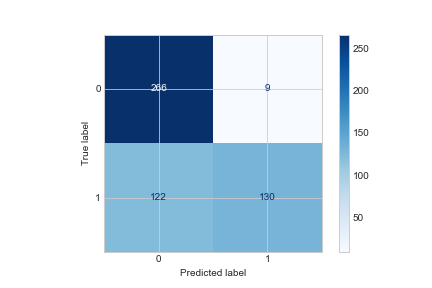
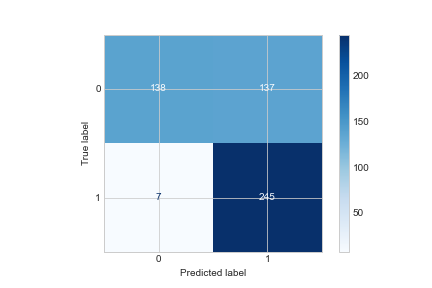
Final commit, turning in.

diff --git a/projects/project-3-andres/README.md b/projects/project-3-andres/README.md
@@ -2,13 +2,30 @@
 ## Problem Statement
 The goal of this project is to use NLP to correctly predict what subreddit a post is from using text and other features from data collected from reddit using the pushshift API. We will collect posts from the subreddits **r/UnresolvedMysteries** and **r/UnsolvedMysteries** for this project.
 
-We will compare classification metrics for our models to determine which has better performance, as measured by:
-- Accuracy
-
+We will build several models and determine which has better performance, as measured by accuracy, given that the datasets are balanced and we are working on a classification problem.
 
 ## Description of data
+Using the Pushshift API, about 1000 submissions (also refered to as posts throughout) to r/UnsolvedMysteries and r/UnresolvedMysteries each were gathered. The features gathered were:
+- Author: Subreddits tend to have regular posters/participators. This can be important in predicting what subreddit a submission was posted to.
+- Awarders: Appears to be a list of users who have given the post and "award". Same as author: people tend to concentrate on subreddits they like.
+- Created UTC: Necessary for API function
+- Self Text: Main text content of the post. Probably most important feature.
+- Subreddit: TARGET
+- Title: Good source of relevant text.
+
+Selftext turned wasn't useful since posts to r/UnsolvedMysteries do not include this feature. Our analysis focused on other features instead: Title and Author.
+
+Data from both subreddits is quite similar, with the exception of author, which varies greatly on each subreddit.
+
+## Models
+The following models were built, fit on training data and scored on a holdout test set:
+- Multinomial Naive Bayes Classifier using Count Vectorizer and 'title' as it's feature. Best Test Score: 65.28% accuracy.
+- Logistic Regression using Count Vectorizer and 'title' as it's feature. Best Test Score: 64.14% accuracy.
+- Logistic Regression using Count Vectorizer and 'author' as it's feature. Best Test Score: 75.14% accuracy.
+- Decision Tree Classifier using Count Vectorizer and 'author' as it's feature. Best Test Score: 72.68% accuracy.
+- Voting Classifier between a Decision Tree Classifier and a Logistic Regression, using Count Vectorizer and 'author' as it's feature. Best Test Score: 72.68% accuracy.
 
 ## Conclusions & Recommendations
-Allthough our location based models have better RMSEs than our null-baseline model, a straightforward linear regression model that didn't include location features performed better than location only models.
+Subreddits can be predicted using title or author features, though not with great accuracy. Most models are underfit, so further hyperparameter optimization can achieve better results. Only one feature was used for each model. Incorporating several features in a single model along with hyperparameter optimization is the logical next step.
 
-Our recommendation is to incorporate a diverse mix of factors when estimating property prices, including but not limited to location characteristics.
+A presentation is included with all relevant information, as well as all code and data used.
